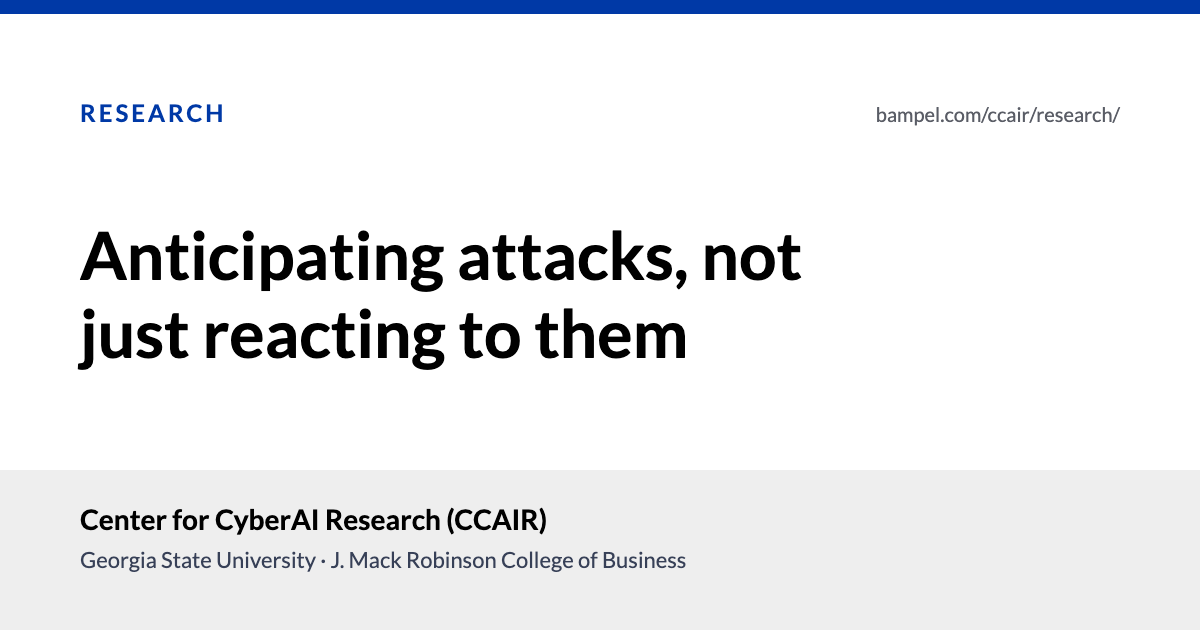
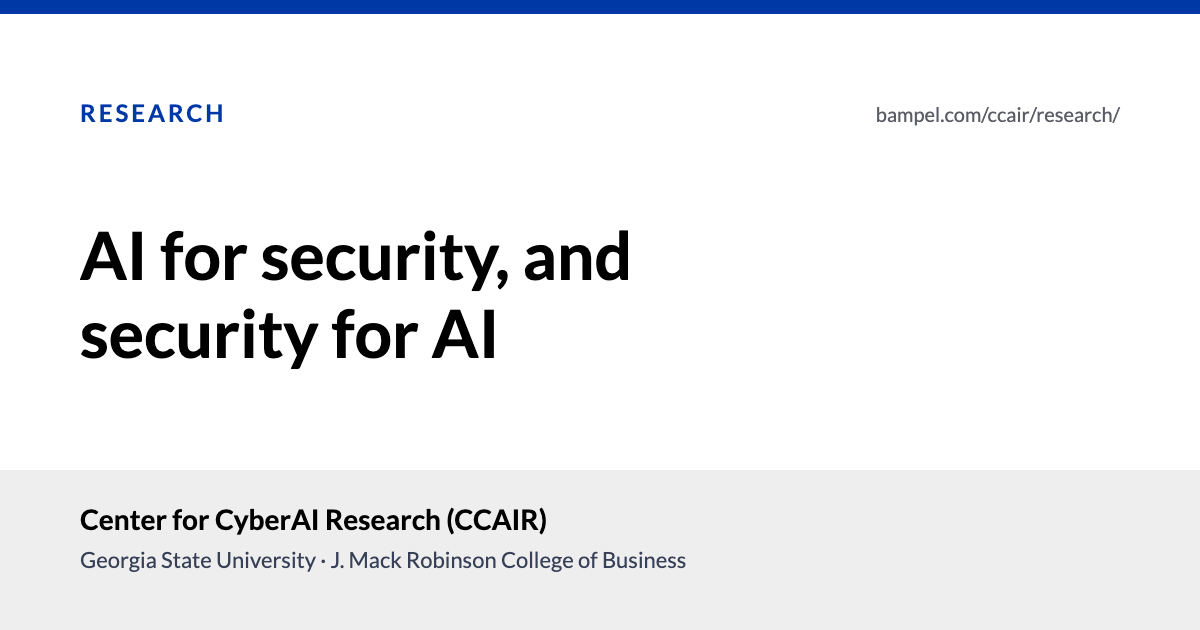
CCAIR: four research areas, new tagline, SFS scholars, updated titles (#78)
- Replace the three research pillars with four areas: threat intelligence and adversary behavior, social engineering and deception, secure and trustworthy AI, human-AI teaming in security (home, research, about, join, noscript summary)
- Home and research pages lead with "AI for security, and security for AI."
- Remove the three-step PillarFlow diagram and its CSS
- People: list the eight current NSF CyberCorps SFS scholars in their own group (kept out of the Ph.D. count), Kameron Clark as Ph.D. student and SFS scholar
- Titles: Ramesh as Regents' Professor, George E. Smith Eminent Scholar's Chair; Bourgeois as Professor, Computer Science

Changed region(s): [[0.0925, 0.3619, 0.6783, 0.4825], [0.0617, 0.4825, 0.5858, 0.6032]]

diff --git a/static/ccair/ccair-pages.jsx b/static/ccair/ccair-pages.jsx
@@ -31,39 +31,37 @@ const PIPELINE = [
   { level: "Doctoral", description: "Ph.D. students lead CCAIR research with dissertations contributing durable center artifacts.", programs: ["Dissertation Research", "Center Publications", "Conference Leadership"] },
 ];
 
-// The three research pillars, each with the published systems that put it into practice.
+// The four research areas, each with the published systems that put it into practice.
 const PILLARS = [
-  { n: '01', title: 'Adversarial Signal Emergence', desc: 'How malicious intent, capabilities, and tactics emerge across heterogeneous data sources prior to exploitation.',
-    points: ['How attacker knowledge diffuses over time', 'Slang and jargon evolution to evade detection', 'Experimental exploits maturing into operational tools', 'Cross-modal signal integration for intent inference'],
+  { n: '01', title: 'Threat intelligence and adversary behavior', desc: 'How attackers organize, communicate, and adapt (e.g., hacker forums, dark web markets), studied to detect threats before they reach a target.',
+    points: ['How attacker knowledge spreads and matures over time', 'Jargon that shifts to evade detection', 'Exploits moving from proof of concept to working tools', 'Early warning for the organizations most likely to be targeted'],
     systems: [
       { name: 'TRACE', href: 'https://bampel.com/conference_publication/vendor-conditioned-contrastive-learning-for-predicting-organizational-/' },
       { name: 'PHI-NEXT', href: 'https://bampel.com/journal_publication/phi-hacker-jmis/' },
       { name: 'HackerSignal', href: 'https://bampel.com/conference_publication/hackersignal-a-large-scale-multi-source-dataset-linking-hacker-communi/' },
+      { name: 'HackerVote', href: 'https://bampel.com/journal_publication/hacker-communities-isf/' },
     ] },
-  { n: '02', title: 'Ambiguity-Aware Intelligence', desc: 'AI systems that operate under adversarial uncertainty: reasoning about ambiguity, deception, and partial information.',
-    points: ['Robust ML under adversarial label noise', 'Adversarially resilient architectures', 'Agentic systems with adaptive decision-making', 'Treating uncertainty as a first-class design constraint'],
+  { n: '02', title: 'Social engineering and deception', desc: 'How people are manipulated through phishing, voice phishing, and deepfakes, and how to detect and train against it.',
+    points: ['Phishing written and adapted by AI', 'Voice phishing and the vocal cues of deception', 'Deepfake audio and video', 'Training that carries over to real attacks'],
     systems: [
       { name: 'Adaptive Phishing GAN', href: 'https://bampel.com/conference_publication/adaptive-phishing-gan-cars-2026/' },
       { name: 'Four-Signal Fusion', href: 'https://bampel.com/conference_publication/four-signal-phishing-cars-2026/' },
+      { name: 'Prosody Training', href: 'https://bampel.com/conference_publication/prosody-vishing-icis-2026/' },
+    ] },
+  { n: '03', title: 'Secure and trustworthy AI', desc: 'Securing AI systems themselves (e.g., large language models, AI agents) and building models that hold up under deception, scarce labels, and shifting data.',
+    points: ['Attacks on large language models and AI agents', 'Models that hold up under adversarial label noise', 'Learning from scarce labels and shifting data', 'AI for finding and fixing vulnerabilities'],
+    systems: [
       { name: 'AVA', href: 'https://bampel.com/conference_publication/vuln-variant-cars-2026/' },
     ] },
-  { n: '03', title: 'Human–AI Collaboration', desc: 'How humans and AI jointly interpret, validate, and act on adversarial signals in realistic security workflows.',
-    points: ['Joint interpretation of adversarial signals', 'Trust calibration between analysts and AI', 'Workflow integration for CTI production', 'Organizational context in security decisions'],
+  { n: '04', title: 'Human-AI teaming in security', desc: 'Workflows in which analysts and AI share triage, validation, and decisions, with calibrated trust and explanations analysts can use.',
+    points: ['Shared triage and validation between analysts and AI', 'Trust calibrated to how accurate the model is', 'Explanations analysts can act on', 'AI-assisted security training'],
     systems: [
       { name: 'AI-Assisted Training', href: 'https://bampel.com/conference_publication/performance-transfer-cars-2026/' },
-      { name: 'Prosody Training', href: 'https://bampel.com/conference_publication/prosody-vishing-icis-2026/' },
-      { name: 'HackerVote', href: 'https://bampel.com/journal_publication/hacker-communities-isf/' },
     ] },
 ];
 
-const JOIN_AREAS = [
-  { area: 'LLM Security & Robustness', desc: 'Adversarial attacks, jailbreaking, alignment for security applications' },
-  { area: 'Cyber Threat Intelligence', desc: 'Automated collection and analysis of threat data from dark web and hacker communities' },
-  { area: 'Phishing & Social Engineering', desc: 'AI-driven detection and generation analysis of phishing campaigns' },
-  { area: 'Proactive Threat Hunting', desc: 'Predictive models and early-warning systems for emerging cyber threats' },
-  { area: 'Human–AI Collaboration', desc: 'Designing AI tools that augment analyst decision-making in SOC environments' },
-  { area: 'Generative AI for Security', desc: 'LLMs for vulnerability analysis, code auditing, and threat modeling' },
-];
+// The Join section lists the same four areas.
+const JOIN_AREAS = PILLARS.map((p) => ({ area: p.title, desc: p.desc }));
 
 const byYearDesc = (a, b) => (b.year || 0) - (a.year || 0);
 
@@ -114,8 +112,8 @@ function HomePage() {
     <div className="hero-inner" ref={innerRef}>
       <p className="hero-affil">Georgia State University · J. Mack Robinson College of Business</p>
       <h1 id="hero-title">Center for <em>CyberAI</em> Research</h1>
-      <p className="lede">We study how intelligent systems can spot malicious behavior before it turns into an attack,
-        and we help people and organizations act on what those systems find.</p>
+      <p className="lede">AI for security, and security for AI. We build AI that spots threats before they become attacks,
+        and we study how to keep AI systems themselves secure.</p>
       <div className="hero-cta">
         <a className="btn btn-primary" href="/ccair/research/">Explore our research <Arrow /></a>
         <a className="btn btn-secondary" href="/ccair/pathways/">Find your cyber career path</a>
@@ -151,9 +149,9 @@ function HomePage() {
         </section>
       )}
 
-      <Section id="pillars" eyebrow="What we study" title="Three questions guide our work"
-        intro="CCAIR shifts security from reacting to attacks toward anticipating them. Each project maps to one of these research pillars.">
-        <div className="grid grid-3">
+      <Section id="pillars" eyebrow="What we study" title="Four research areas"
+        intro="Each CCAIR project maps to at least one of these areas.">
+        <div className="grid grid-2">
           {PILLARS.map((p) => (
             <Reveal key={p.n} className="card">
               <span className="card-num">{p.n}</span>
@@ -204,68 +202,20 @@ function HomePage() {
   );
 }
 
-// How the three primitives connect, drawn as one flow: signals emerge, AI reasons over them under ambiguity, analysts and
-// AI decide together. The motion is decoration only (CSS, off under prefers-reduced-motion); the caption says the same.
-const PFLOW_DOTS = [[14, 20], [36, 10], [58, 26], [22, 44], [46, 50], [72, 14], [82, 40], [30, 68], [62, 70], [10, 60], [86, 68], [52, 36]];
-function PillarFlow() {
-  return (
-    <figure className="pflow">
-      <div className="pflow-steps">
-        <div className="pflow-step">
-          <svg className="pflow-art" viewBox="0 0 96 84" aria-hidden="true">
-            {PFLOW_DOTS.map(([x, y], i) => <circle key={i} cx={x} cy={y} r="3.2" className="pflow-dot" style={{ animationDelay: `${((i * 0.37) % 2.4).toFixed(2)}s` }} />)}
-          </svg>
-          <span className="pflow-num">P1</span>
-          <b>{PILLARS[0].title}</b>
-          <span className="pflow-text">Intent and capability surface across forums, exploits, and code before an attack.</span>
-        </div>
-        <div className="pflow-link" aria-hidden="true"><svg viewBox="0 0 64 16"><path d="M2 8 H54" /><path className="pflow-head" d="M50 3 L58 8 L50 13" /></svg></div>
-        <div className="pflow-step">
-          <svg className="pflow-art" viewBox="0 0 96 84" aria-hidden="true">
-            <path className="pflow-edge" d="M16 16 L48 28 M16 16 L48 52 M16 40 L48 28 M16 40 L48 52 M16 64 L48 28 M16 64 L48 52 M48 28 L80 40 M48 52 L80 40" />
-            {[[16, 16], [16, 40], [16, 64], [48, 28], [48, 52]].map(([x, y], i) => <circle key={i} className="pflow-node" cx={x} cy={y} r="5" style={{ animationDelay: `${(i * 0.18).toFixed(2)}s` }} />)}
-            <circle className="pflow-core" cx="80" cy="40" r="6.5" />
-            <rect className="pflow-track" x="20" y="78" width="56" height="5" rx="2.5" />
-            <rect className="pflow-band" x="20" y="78" width="56" height="5" rx="2.5" />
-          </svg>
-          <span className="pflow-num">P2</span>
-          <b>{PILLARS[1].title}</b>
-          <span className="pflow-text">Models weigh deception and partial information, and say how sure they are.</span>
-        </div>
-        <div className="pflow-link" aria-hidden="true"><svg viewBox="0 0 64 16"><path d="M2 8 H54" /><path className="pflow-head" d="M50 3 L58 8 L50 13" /></svg></div>
-        <div className="pflow-step">
-          <svg className="pflow-art" viewBox="0 0 96 84" aria-hidden="true">
-            <circle className="pflow-person" cx="30" cy="30" r="10" />
-            <path className="pflow-person" d="M12 70 C 12 54, 48 54, 48 70" />
-            <rect className="pflow-box" x="56" y="22" width="30" height="30" rx="7" />
-            <path className="pflow-chip" d="M71 28 C 72 34, 74 36, 80 37 C 74 38, 72 40, 71 46 C 70 40, 68 38, 62 37 C 68 36, 70 34, 71 28 Z" />
-            <path className="pflow-check" d="M58 66 L66 73 L84 56" />
-          </svg>
-          <span className="pflow-num">P3</span>
-          <b>{PILLARS[2].title}</b>
-          <span className="pflow-text">Analysts and AI interpret the result together and act on it in real workflows.</span>
-        </div>
-      </div>
-      <figcaption>Each CCAIR project advances at least one step: finding threats early, reasoning about them under uncertainty, and turning them into decisions people trust.</figcaption>
-    </figure>
-  );
-}
-
 function ResearchPage() {
   const { publications } = useData();
   const pubsReady = useDataStatus('publications') === 'ready';
   return (
     <div className="page">
-      <PageHead eyebrow="Research" title="Anticipating attacks, not just reacting to them"
-        lede="CCAIR investigates how intelligent systems can anticipate, interpret, and adapt to malicious behavior before exploitation. All center activities, proposals, and artifacts map to at least one of three research primitives."
+      <PageHead eyebrow="Research" title="AI for security, and security for AI"
+        lede="CCAIR builds AI that detects threats before exploitation and studies how to secure AI systems themselves. All center activities, proposals, and artifacts map to at least one of four research areas."
         photo="research-band" />
 
-      <Section id="primitives" title="Research primitives" intro="The foundational questions every project contributes to.">
-        <PillarFlow />
-        <div className="grid grid-3">
-          {PILLARS.map((p, i) => (
+      <Section id="primitives" title="Research areas" intro="The questions every project contributes to.">
+        <div className="grid grid-2">
+          {PILLARS.map((p) => (
             <Reveal key={p.n} className="card">
-              <span className="card-num">P{i + 1}</span>
+              <span className="card-num">{p.n}</span>
               <h3>{p.title}</h3>
               <p>{p.desc}</p>
               <ul className="list-check">{p.points.map((pt) => <li key={pt}>{pt}</li>)}</ul>
@@ -430,11 +380,17 @@ function PeoplePage() {
         </Reveal>
       </Section>}
 
-      <Section id="students" alt title="Graduate researchers" intro="Ph.D. students advised and mentored by CCAIR faculty at Georgia State and partner institutions.">
+      <Section id="students" alt title="Graduate researchers" intro="Ph.D. students and SFS scholars advised and mentored by CCAIR faculty at Georgia State and partner institutions.">
         <h3 className="group-label">Georgia State University</h3>
         <div className="grid grid-3">
           {(people.students || []).map((s) => <Reveal key={s.name}><PersonCard name={s.name} role={s.role} meta={[s.org, s.years].filter(Boolean).join(' · ')} photo={s.photo} headingLevel={4} /></Reveal>)}
         </div>
+        {(people.sfsScholars || []).length > 0 && <>
+          <h3 className="group-label">NSF CyberCorps Scholarship for Service (SFS) scholars</h3>
+          <div className="grid grid-3">
+            {people.sfsScholars.map((s) => <Reveal key={s.name}><PersonCard name={s.name} role={s.role} meta={s.org} photo={s.photo} headingLevel={4} /></Reveal>)}
+          </div>
+        </>}
         <h3 className="group-label">Mentees at partner universities</h3>
         <div className="grid grid-3">
           {current.map((s) => <Reveal key={s.name}><PersonCard name={s.name} role={s.role} meta={[s.org, s.years].filter(Boolean).join(' · ')} photo={s.photo} warm headingLevel={4} /></Reveal>)}
@@ -448,7 +404,7 @@ function PeoplePage() {
         </>}
       </Section>
 
-      <Section id="affiliates" title="Faculty affiliates" intro="Internal and external faculty contributing to shared CCAIR artifacts across research primitives.">
+      <Section id="affiliates" title="Faculty affiliates" intro="Internal and external faculty contributing to shared CCAIR artifacts across the four research areas.">
         <div className="grid grid-3">
           {(people.affiliates || []).map((a) => (
             <Reveal key={a.name}><PersonCard name={a.name} role={a.role} meta={a.dept} note={a.synergy} photo={a.photo} /></Reveal>
@@ -620,7 +576,7 @@ function AboutPage() {
   return (
     <div className="page">
       <PageHead eyebrow="About" title="A home for AI-enabled cybersecurity at Georgia State"
-        lede="CCAIR advances AI-enabled cybersecurity through three pillars: adversarial signal emergence, ambiguity-aware intelligence, and human–AI collaboration. We study how malicious intent surfaces across data sources before exploitation, build AI that reasons under deception and partial information, and design how analysts and AI act on adversarial signals together." />
+        lede="CCAIR works on AI for security, and security for AI, across four research areas: threat intelligence and adversary behavior, social engineering and deception, secure and trustworthy AI, and human-AI teaming in security." />
 
       <Section id="pipeline" title="Talent pipeline" intro="A multi-stage pipeline spanning K–12 through doctoral research, building technically sophisticated and theoretically grounded CyberAI professionals.">
         <ol className="steps">
@@ -755,7 +711,7 @@ function ContactPage() {
       <Section id="join" alt eyebrow="Open positions" title="Join CCAIR"
         intro="CCAIR is recruiting motivated Ph.D. and M.S. students to join our research group at Georgia State University. We value curiosity, persistence, and a willingness to work at the intersection of AI and cybersecurity.">
         <h3 className="group-label">Research areas</h3>
-        <div className="grid grid-3">
+        <div className="grid grid-2">
           {JOIN_AREAS.map(({ area, desc }) => (
             <Reveal key={area} className="card"><h3>{area}</h3><p>{desc}</p></Reveal>
           ))}

diff --git a/static/ccair/assets/ccair.css b/static/ccair/assets/ccair.css
@@ -580,48 +580,3 @@ a.chip:active { transform: scale(0.97); }
 /* Skip-link target: focused programmatically, no ring around the whole page */
 #main-content:focus { outline: none; }
 
-/* Research primitives flow (ResearchPage PillarFlow). */
-.pflow { margin: 0 0 clamp(28px, 4vw, 44px); padding: clamp(20px, 3vw, 32px); border: 1px solid var(--line); border-radius: var(--radius);
-  background: radial-gradient(120% 90% at 50% 0%, var(--accent-soft), transparent 70%), var(--surface); box-shadow: var(--shadow-sm); }
-.pflow-steps { display: grid; grid-template-columns: minmax(0, 1fr) 56px minmax(0, 1fr) 56px minmax(0, 1fr); align-items: start; gap: 8px; }
-.pflow-step { display: flex; flex-direction: column; align-items: center; text-align: center; gap: 6px; }
-.pflow-art { width: 112px; height: 98px; overflow: visible; }
-.pflow-num { font-size: 12px; font-weight: 800; letter-spacing: 0.08em; color: var(--accent); }
-.pflow-step b { color: var(--heading); font-size: 17px; line-height: 1.25; }
-.pflow-text { color: var(--text-2); font-size: 14.5px; line-height: 1.5; max-width: 28ch; }
-.pflow-link { align-self: start; margin-top: 42px; }
-.pflow-link svg { display: block; width: 100%; height: 16px; overflow: visible; }
-.pflow-link path { fill: none; stroke: var(--accent-line); stroke-width: 2; stroke-linecap: round; stroke-linejoin: round; }
-.pflow-link .pflow-head { stroke: var(--accent); }
-.pflow-dot { fill: var(--accent-2); }
-.pflow-edge { fill: none; stroke: var(--accent-line); stroke-width: 1.5; }
-.pflow-node { fill: var(--surface); stroke: var(--accent); stroke-width: 2; }
-.pflow-box { fill: var(--accent-soft); stroke: var(--accent); stroke-width: 2; }
-.pflow-track { fill: var(--line-strong); }
-.pflow-band { fill: var(--accent-2); }
-.pflow-core { fill: var(--accent); }
-.pflow-person { fill: none; stroke: var(--steel); stroke-width: 2.5; stroke-linecap: round; }
-.pflow-chip { fill: var(--accent); }
-.pflow-check { fill: none; stroke: var(--accent-2); stroke-width: 3.5; stroke-linecap: round; stroke-linejoin: round; }
-.pflow figcaption { margin: 18px auto 0; max-width: 70ch; text-align: center; color: var(--muted); font-size: 14px; line-height: 1.5; }
-@media (max-width: 760px) {
-  .pflow-steps { grid-template-columns: minmax(0, 1fr); gap: 2px; }
-  .pflow-step { display: grid; grid-template-columns: 76px minmax(0, 1fr); column-gap: 14px; row-gap: 2px; align-items: center; text-align: left; }
-  .pflow-art { grid-row: 1 / span 3; width: 76px; height: 66px; }
-  .pflow-link { margin: 0 0 0 30px; width: 16px; height: 28px; }
-  .pflow-link svg { width: 28px; height: 16px; transform: translate(-6px, 6px) rotate(90deg); }
-}
-@media (prefers-reduced-motion: no-preference) {
-  .pflow-dot { animation: pflowBlink 2.4s ease-in-out infinite; }
-  @keyframes pflowBlink { 0%, 100% { opacity: 0.25; } 50% { opacity: 1; } }
-  .pflow-link path:first-child { stroke-dasharray: 4 6; animation: pflowFlow 0.9s linear infinite; }
-  @keyframes pflowFlow { to { stroke-dashoffset: -20; } }
-  .pflow-edge { stroke-dasharray: 3 4; animation: pflowFlow 1.1s linear infinite; }
-  .pflow-node { animation: pflowBlink 2.4s ease-in-out infinite; }
-  .pflow-band { transform-box: fill-box; transform-origin: center; animation: pflowBand 3.2s var(--ease) infinite; }
-  @keyframes pflowBand { 0%, 100% { transform: scaleX(1); } 50% { transform: scaleX(0.4); } }
-  .pflow-core { transform-box: fill-box; transform-origin: center; animation: pflowPulse 3.2s var(--ease) infinite; }
-  @keyframes pflowPulse { 50% { transform: scale(1.35); } }
-  .pflow-check { stroke-dasharray: 34; stroke-dashoffset: 34; animation: pflowCheck 3.2s var(--ease) infinite; }
-  @keyframes pflowCheck { 0%, 40% { stroke-dashoffset: 34; } 70%, 100% { stroke-dashoffset: 0; } }
-}

diff --git a/static/ccair/index.html b/static/ccair/index.html
@@ -44,9 +44,9 @@
     <noscript><p class="narrow" style="padding-top:24px">The CCAIR site works best with JavaScript turned on. The summary below has the essentials.</p></noscript>
     <div class="narrow" style="padding:64px 0">
       <h1 style="font-size:40px;line-height:1.1;font-weight:300;margin-bottom:20px">Center for CyberAI Research (CCAIR)</h1>
-      <p class="lede" style="margin-bottom:16px">The Center for CyberAI Research (CCAIR) at Georgia State University advances
-      AI-enabled cybersecurity through three research pillars: adversarial signal emergence,
-      ambiguity-aware intelligence, and human–AI collaboration. The center is directed by Dr. Benjamin M. Ampel
+      <p class="lede" style="margin-bottom:16px">The Center for CyberAI Research (CCAIR) at Georgia State University works on
+      AI for security, and security for AI, across four research areas: threat intelligence and adversary
+      behavior, social engineering and deception, secure and trustworthy AI, and human-AI teaming in security. The center is directed by Dr. Benjamin M. Ampel
       (Assistant Professor, Computer Information Systems) and builds on research published in
       MIS Quarterly, the Journal of Management Information Systems, ACM TMIS, and IEEE ISI.</p>
       <p style="margin-bottom:16px;color:var(--text-2)">CCAIR research at Georgia State is supported by the NSF CyberCorps Scholarship for Service

diff --git a/scripts/build-ccair.js b/scripts/build-ccair.js
@@ -90,7 +90,7 @@ console.log('CCAIR friends: %d organizations checked', checkFriends());
 function checkPeopleAndPublications() {
   const people = JSON.parse(fs.readFileSync(path.join(ccairDir, 'data', 'people.json'), 'utf8'));
   if (people.director) for (const k of ['name', 'title', 'dept', 'email']) if (!people.director[k]) throw new Error(`people.json: director needs ${k}`);
-  for (const group of ['students', 'mentees', 'affiliates']) {
+  for (const group of ['students', 'sfsScholars', 'mentees', 'affiliates']) {
     for (const p of people[group] || []) for (const k of ['name', 'role']) if (!p[k]) throw new Error(`people.json: ${group} entry "${p.name || '?'}" needs ${k}`);
   }
   const pubs = JSON.parse(fs.readFileSync(path.join(ccairDir, 'data', 'publications.json'), 'utf8'));
